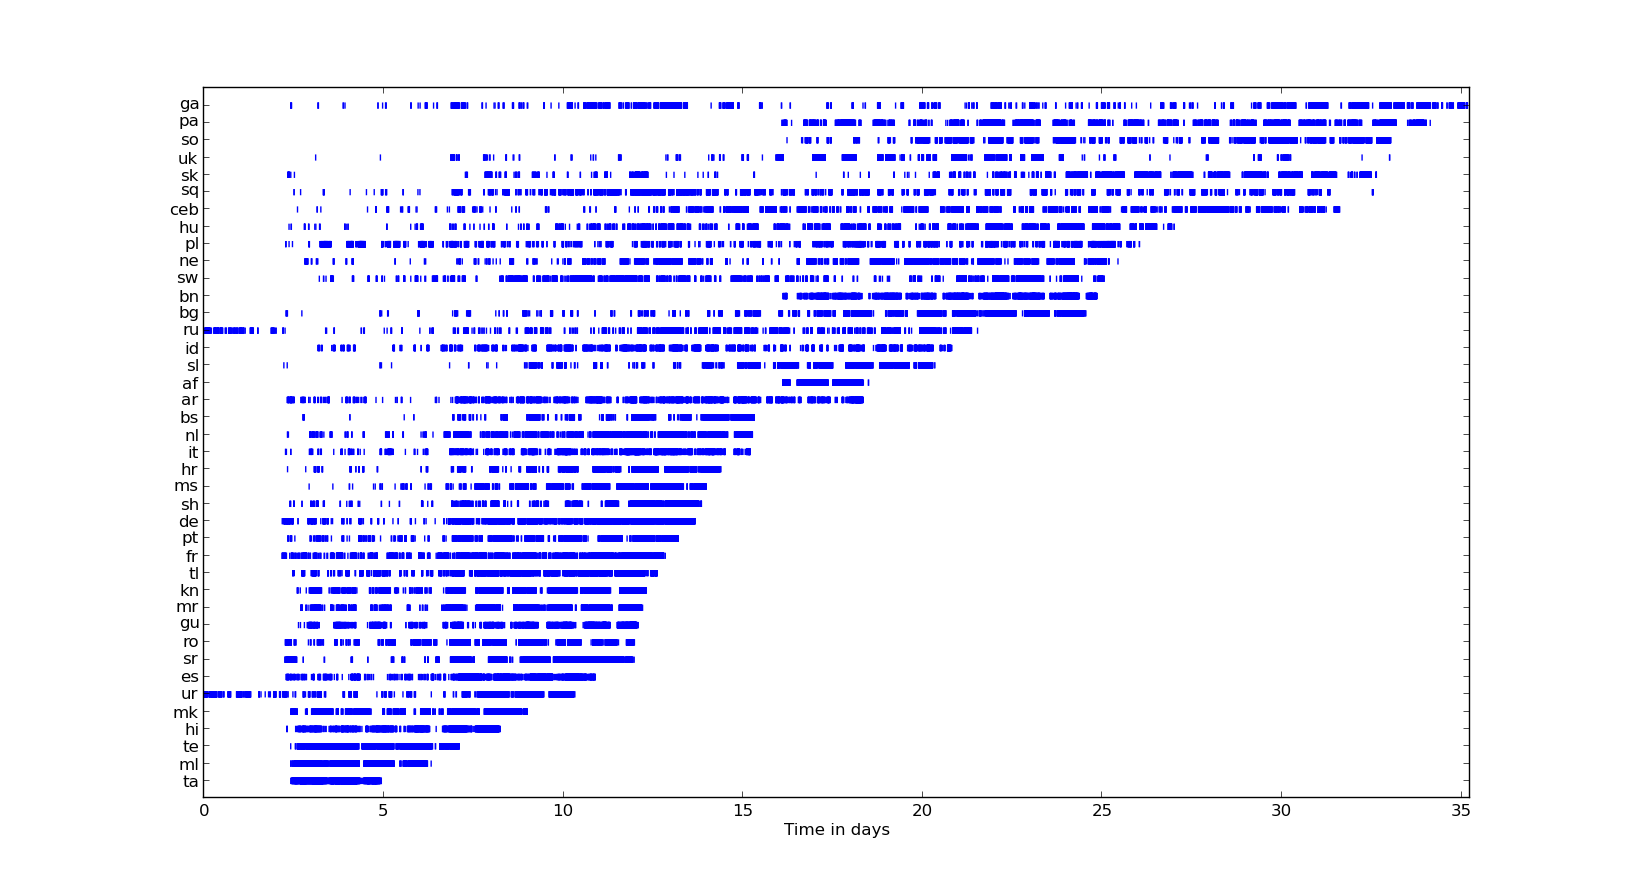
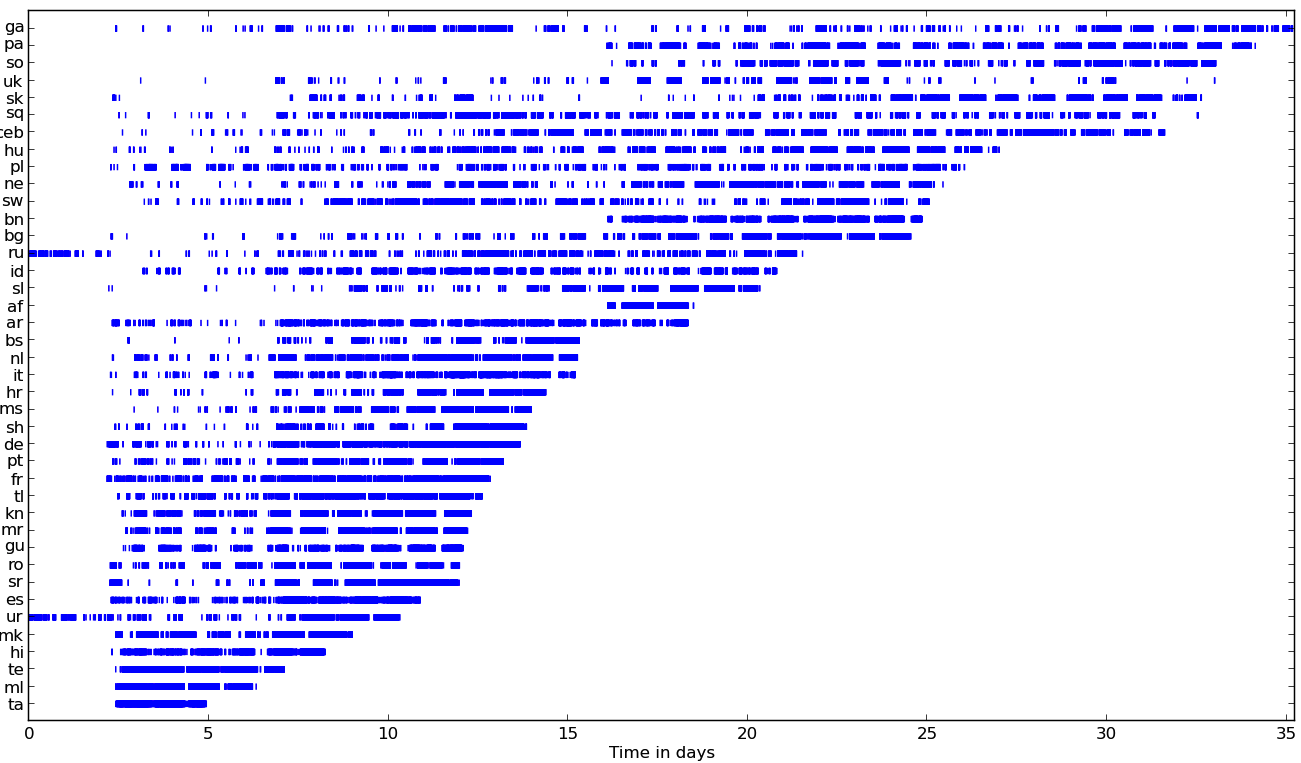
Minor mods to timeseries figure and captions

Changed region(s): [[0.0, 0.0, 1.0, 0.9948]]

diff --git a/writeup/paper.tex b/writeup/paper.tex
@@ -151,37 +151,9 @@ To contrast our research with previous work, the main contributions of this pape
 %%%%%%%%%%%%%%%%%%%%%%%%%%%%%%%%%%%%%%%%%%%%%%%%%%%%%%%%
 
 
-%
-%%%%%%%%%%%%%%%% NAT LANG PIE %%%%%%%%%%%
-%\begin{figure}[h]
-%\centering
-%\includegraphics[width=\linewidth]{figures/natlang-pie}
-%\caption{Self-reported native language of 3,154 bilingual Turkers.  Not shown are the languages of 243 Turkers who reported two native languages, 83 who reported $\geq$3 native languages, and 1.801 who failed to answer the language survey component of our translation HITs.}
-%\label{lang-pie}
-%\end{figure}
-%%%%%%%%%%%%%%%%%%%%%%%%%%%%%%%%%%%%%%%%
-%
-\section{Survey Design}
-The central task in this study was to investigate Mechanical Turk's bilingual population.  We accomplished this through self-reported surveys combined with a HIT to translate individual words for over 100 languages.  We evaluate the accuracy of the workers' translations against known translations.  In cases where these were not exact matches, we used a second pass monolingual HIT, which asked English speakers to evaluate if a worker-provided translation was a synonym of the known translation.
-
-
-\paragraph{Demographic questionnaire}
-
-At the start of each HIT, Turkers were asked to complete a brief survey about their language abilities. The survey asked the following questions:
-\begin{itemize}
-\item Is [language] your native language? 
-\item How many years have you spoken [language]? 
-\item Is English your native language? 
-\item How many years have you spoken English?
-\item What country do you live in?
-\end{itemize}
-We automatically collected each worker's current location by geolocating their IP address.  A total of 5,281 unique workers completed our HITs.  Among those, 3,890 provided responses to our survey questions, and we were able to geolocate 5,054.  Figure \ref{map} plots the location of workers across 111 countries.  Table \ref{lang-pie} gives the most common self-reported native languages. 
-
-% were not required in order to complete the HIT; survey questions and the number of valid responses received for each are listed in table \ref{survey-tab}. Although it was not required, Turkers who completed multiple HIT assignments could fill out the survey multiple times. This enabled some Turkers to report multiple native languages (see figure \ref{numlangs-tab}). While most results presented are calculated across all Turkers, figures given for distributions across native languages are calculated only from Turkers who reported a single native language.\\
-
 
 %%%%%%%%%%%%%%% NAT LANG PIE TABLE %%%%%%%%%%%
-\begin{table}[h]
+\begin{table}
 \footnotesize
 \begin{tabular}{lrlrlr}\hline\hline
 %Language&\# Turkers\\
@@ -206,6 +178,26 @@ German&66&	Turkish&35&	Others &$\leq$20\\
 We omit 1,801 Turkers did not report their native language, 243 who reported 2 native languages, and 83 who reported $\geq$3 native languages.}\label{lang-pie}
 \end{table}
 %%%%%%%%%%%%%%%%%%%%%%%%%%%%%%%%%%%%%%%
+
+
+
+\section{Survey Design}
+The central task in this study was to investigate Mechanical Turk's bilingual population.  We accomplished this through self-reported surveys combined with a HIT to translate individual words for over 100 languages.  We evaluate the accuracy of the workers' translations against known translations.  In cases where these were not exact matches, we used a second pass monolingual HIT, which asked English speakers to evaluate if a worker-provided translation was a synonym of the known translation.
+
+
+\paragraph{Demographic questionnaire}
+
+At the start of each HIT, Turkers were asked to complete a brief survey about their language abilities. The survey asked the following questions:
+\begin{itemize}
+\item Is [language] your native language? 
+\item How many years have you spoken [language]? 
+\item Is English your native language? 
+\item How many years have you spoken English?
+\item What country do you live in?
+\end{itemize}
+We automatically collected each worker's current location by geolocating their IP address.  A total of 5,281 unique workers completed our HITs.  Among those, 3,890 provided responses to our survey questions, and we were able to geolocate 5,054.  Figure \ref{map} plots the location of workers across 111 countries.  Table \ref{lang-pie} gives the most common self-reported native languages. 
+
+% were not required in order to complete the HIT; survey questions and the number of valid responses received for each are listed in table \ref{survey-tab}. Although it was not required, Turkers who completed multiple HIT assignments could fill out the survey multiple times. This enabled some Turkers to report multiple native languages (see figure \ref{numlangs-tab}). While most results presented are calculated across all Turkers, figures given for distributions across native languages are calculated only from Turkers who reported a single native language.\\
 
 
 
@@ -292,7 +284,7 @@ Following \newcite{zaidan-callisonburch:2011:ACL-HLT2011a}, we rendered the word
 \centering
 %\includegraphics[height=\linewidth,angle=270]{figures/completiontime-series}
 \includegraphics[width=6in]{figures/completiontime-series}
-\caption{Time (in days) to complete HITS in each language. Tick marks represent the completion of individual HITs. Elapsed time is relative to the first submitted HIT across all languages (Urdu). }
+\caption{Time (in days) to complete the translation HITs for 40 of the languages in our study. Tick marks represent the completion of individual assignments. Urdu and Russian were the first languages to be launched, followed by the others 2 days later. The languages which completed in the shortest amount of time were 4 Indian languages and Macedonian.}
 %\caption{Time (in days) to complete all HITs in each language. Red bars show time until first HIT was started,
 % relative to the time the first HIT in each language was started, relative to the time the first HIT in any language was started (first HIT started across all languages was Urdu). 
 % blue bars show time until all HITs in each language were completed.}
